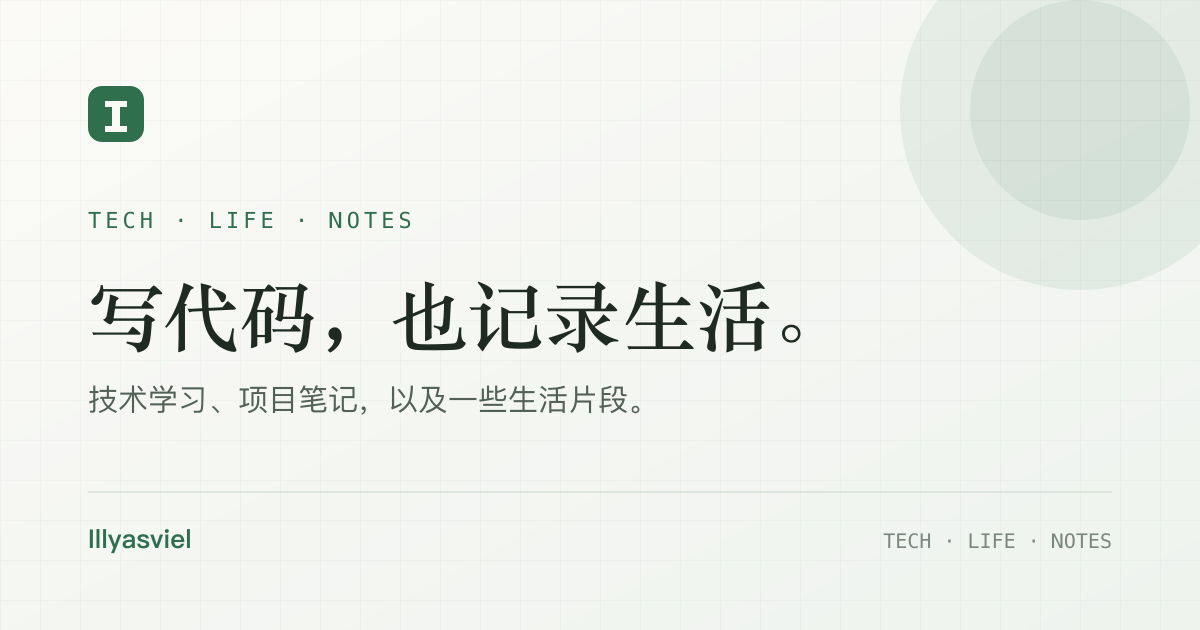
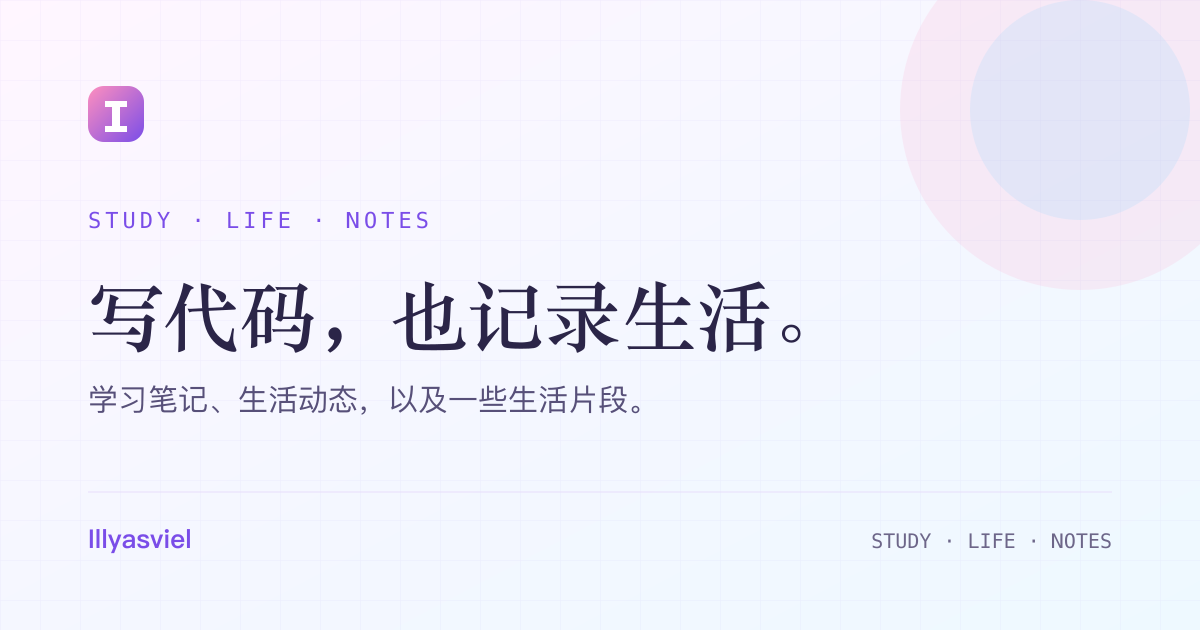
Remove intro card box, rename modules, add sliding nav indicator

diff --git a/src/styles/global.css b/src/styles/global.css
@@ -316,35 +316,71 @@ p {
 .nav {
   display: flex;
   align-items: center;
+  gap: 8px;
+}
+
+.nav__links {
+  position: relative;
+  display: flex;
+  align-items: center;
   gap: 2px;
+  padding: 3px;
+  border: 1px solid var(--border);
+  border-radius: 999px;
+  background: color-mix(in srgb, var(--surface-2) 58%, transparent);
+}
+
+.nav__indicator {
+  position: absolute;
+  top: 3px;
+  bottom: 3px;
+  left: 0;
+  z-index: 0;
+  width: 0;
+  border-radius: 999px;
+  background: linear-gradient(135deg, var(--accent), var(--accent-2));
+  box-shadow: 0 8px 20px -12px rgba(139, 92, 246, 0.6);
+  opacity: 0;
+  pointer-events: none;
+  transition: transform 0.32s cubic-bezier(0.22, 1, 0.36, 1),
+    width 0.32s cubic-bezier(0.22, 1, 0.36, 1), opacity 0.2s ease;
 }
 
 .nav a {
+  position: relative;
+  z-index: 1;
   padding: 8px 13px;
   border-radius: 999px;
   color: var(--text-soft);
   font-size: 13.5px;
-  transition: background 0.16s ease, color 0.16s ease, box-shadow 0.16s ease;
+  transition: color 0.2s ease;
 }
 
-.nav a:hover {
-  background: var(--accent-soft);
-  color: var(--accent);
-}
-
+.nav a:hover,
 .nav a[aria-current="page"] {
-  background: linear-gradient(135deg, var(--accent), var(--accent-2));
   color: #ffffff;
   font-weight: 700;
-  box-shadow: 0 8px 20px -12px rgba(139, 92, 246, 0.6);
 }
 
+[data-theme="dark"] .nav__links {
+  border-color: rgba(0, 229, 255, 0.16);
+  background: rgba(0, 229, 255, 0.03);
+}
+
+[data-theme="dark"] .nav__indicator {
+  border: 1px solid rgba(0, 229, 255, 0.42);
+  background: linear-gradient(
+    135deg,
+    rgba(0, 229, 255, 0.18),
+    rgba(255, 43, 214, 0.14)
+  );
+  box-shadow: 0 0 20px rgba(0, 229, 255, 0.18),
+    inset 0 0 12px rgba(0, 229, 255, 0.05);
+}
+
+[data-theme="dark"] .nav a:hover,
 [data-theme="dark"] .nav a[aria-current="page"] {
-  border: 1px solid rgba(0, 229, 255, 0.35);
-  background: rgba(0, 229, 255, 0.1);
   color: var(--accent);
-  box-shadow: 0 0 18px rgba(0, 229, 255, 0.18),
-    inset 0 0 12px rgba(0, 229, 255, 0.06);
   text-shadow: 0 0 10px rgba(0, 229, 255, 0.5);
 }
 
@@ -1560,8 +1596,13 @@ p {
     border-top: 1px solid var(--border);
   }
 
+  .nav__links {
+    flex: 1;
+    justify-content: space-between;
+  }
+
   .nav a {
-    padding: 6px 8px;
+    padding: 7px 8px;
     font-size: 12.5px;
   }
 

diff --git a/src/consts.ts b/src/consts.ts
@@ -2,29 +2,30 @@ export const SITE = {
   title: 'Illyasviel',
   name: 'Taffy',
   handle: 'Illyasviel0913',
-  tagline: '技术、学习与生活',
-  description: '记录技术学习、项目笔记与生活片段。',
+  tagline: '学习、生活与记录',
+  description: '记录学习笔记、生活动态与一些片段。',
   author: 'Illyasviel',
   url: import.meta.env.SITE ?? 'https://illyasviel0913.github.io',
   github: 'https://github.com/Illyasviel0913',
   nav: [
     { href: '/', label: '首页' },
-    { href: '/categories/tech/', label: '技术' },
-    { href: '/categories/life/', label: '生活' },
-    { href: '/blog/', label: '文章' },
+    { href: '/categories/study/', label: '学习笔记' },
+    { href: '/categories/life/', label: '生活动态' },
     { href: '/about/', label: '关于' },
   ],
 } as const;
 
 export const CATEGORIES = [
   {
-    name: '技术',
-    slug: 'tech',
-    description: '工程实践、工具使用、踩坑记录。',
+    name: '学习笔记',
+    slug: 'study',
+    short: '学',
+    description: '课程、读书、技术实践与踩坑记录。',
   },
   {
-    name: '生活',
+    name: '生活动态',
     slug: 'life',
-    description: '日常、阅读、行走，以及一些无关紧要的瞬间。',
+    short: '生',
+    description: '日常、阅读、行走，和一些生活片段。',
   },
 ] as const;

diff --git a/src/content.config.ts b/src/content.config.ts
@@ -12,7 +12,7 @@ const blog = defineCollection({
     description: z.string().max(200),
     pubDate: z.coerce.date(),
     updatedDate: z.coerce.date().optional(),
-    category: z.enum(['技术', '生活']),
+    category: z.enum(['学习笔记', '生活动态']),
     tags: z.array(z.string()).default([]),
     cover: z.string().optional(),
     coverAlt: z.string().optional(),

diff --git a/README.md b/README.md
@@ -1,6 +1,6 @@
 # Illyasviel
 
-一个记录技术学习与生活片段的个人博客。
+一个记录学习笔记与生活动态的个人博客。
 
 ## 技术栈
 
@@ -26,7 +26,7 @@ npm run build
 npm run preview
 ```
 
-## 写文章
+## 写动态
 
 在 `src/content/blog/` 下新建 Markdown 文件，文件名就是 URL：
 
@@ -38,13 +38,13 @@ Frontmatter 格式：
 
 ```yaml
 ---
-title: 文章标题
+title: 动态标题
 description: 一句话摘要，会显示在列表和 SEO 里
 pubDate: 2026-10-22
 # updatedDate: 2026-10-23  # 可选
-category: 技术              # 技术 / 生活
+category: 学习笔记          # 学习笔记 / 生活动态
 tags: [astro, notes]        # 建议用英文小写，URL 更干净
-# cover: /images/xxx.jpg    # 可选：文章封面图（放到 public/ 下）
+# cover: /images/xxx.jpg    # 可选：动态封面图（放到 public/ 下）
 draft: false                # true 时只在开发环境显示
 ---
 ```
@@ -115,14 +115,14 @@ DNS 生效后，在 Pages 设置里勾选 **Enforce HTTPS**。
 ├── .github/workflows/deploy.yml   # 自动部署
 ├── public/                        # favicon、OG 图、manifest
 ├── src/
-│   ├── components/                # Header、Footer、文章卡片
-│   ├── content/blog/              # 所有文章
+│   ├── components/                # Header、Footer、动态卡片
+│   ├── content/blog/              # 所有动态
 │   ├── layouts/BaseLayout.astro   # 页面骨架、SEO、主题
 │   ├── pages/                     # 路由
 │   ├── styles/global.css          # 全站样式
-│   ├── utils/posts.ts             # 文章查询、日期、阅读时长
+│   ├── utils/posts.ts             # 动态查询、日期、阅读时长
 │   ├── consts.ts                  # 站点信息、导航、分类
-│   └── content.config.ts          # 文章 frontmatter 校验
+│   └── content.config.ts          # 动态 frontmatter 校验
 ├── astro.config.mjs               # site、sitemap、代码高亮
 └── package.json
 ```

diff --git a/src/content/blog/hello-world.md b/src/content/blog/hello-world.md
@@ -2,7 +2,7 @@
 title: 你好，世界
 description: 开一个博客，给学习与生活留个存档。
 pubDate: 2026-10-22
-category: 生活
+category: 生活动态
 tags: [life, essay]
 ---
 
@@ -20,8 +20,8 @@ tags: [life, essay]
 
 大概会分成两类：
 
-- **技术**：做过的东西、踩过的坑、读过的源码，以及一些还没想明白的问题。
-- **生活**：读过的书、走过的路、某个普通的下午，以及那些不适合发在别处的小事。
+- **学习笔记**：做过的东西、踩过的坑、读过的源码，以及一些还没想明白的问题。
+- **生活动态**：读过的书、走过的路、某个普通的下午，以及那些不适合发在别处的小事。
 
 不会定时更新，也不追热点。有想记的就写，没有就空着。
 

diff --git a/src/content/blog/astro-github-pages.md b/src/content/blog/astro-github-pages.md
@@ -3,7 +3,7 @@ title: 用 Astro 和 GitHub Pages 搭一个安静的博客
 description: 从零搭一个 Markdown 驱动、push 即部署的个人站点。
 pubDate: 2026-10-20
 updatedDate: 2026-10-21
-category: 技术
+category: 学习笔记
 tags: [astro, github-pages, blog]
 ---
 
@@ -39,7 +39,7 @@ Frontmatter 里放标题、描述、日期、分类和标签：
 title: 你好，世界
 description: 开一个博客，给学习与生活留个存档。
 pubDate: 2026-10-22
-category: 生活
+category: 生活动态
 tags: [life, essay]
 ---
 ```

diff --git a/src/content/blog/learning-notes.md b/src/content/blog/learning-notes.md
@@ -2,7 +2,7 @@
 title: 我如何记学习笔记
 description: 不追求漂亮的笔记本，只追求下次还能用。
 pubDate: 2026-10-18
-category: 技术
+category: 学习笔记
 tags: [notes, learning]
 ---
 

diff --git a/src/content/blog/weekend-walk.md b/src/content/blog/weekend-walk.md
@@ -2,7 +2,7 @@
 title: 周末去江边走了走
 description: 不带耳机，不赶时间，走一段路。
 pubDate: 2026-10-12
-category: 生活
+category: 生活动态
 tags: [life, weekend]
 ---
 
